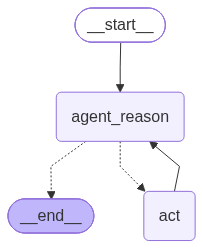
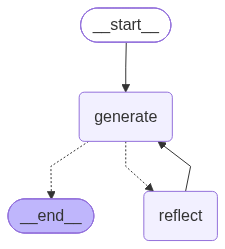
reflection agent

diff --git a/main.py b/main.py
@@ -1,38 +1,70 @@
+from typing import TypedDict, Annotated
+
 from dotenv import load_dotenv
-
-from langchain_core.messages import HumanMessage
-from langgraph.graph import MessagesState, StateGraph,END
-
-from nodes import run_agent_reasoning, tool_node
 
 load_dotenv()
 
-AGENT_REASON="agent_reason"
-ACT= "act"
-LAST = -1
+from langchain_core.messages import BaseMessage, HumanMessage
+from langgraph.graph import END, StateGraph
+from langgraph.graph.message import add_messages
+
+from chains import generate_chain, reflect_chain
 
 
-def should_continue(state: MessagesState) -> str:
-    if not state["messages"][LAST].tool_calls:
+class MessageGraph(TypedDict):
+    messages: Annotated[list[BaseMessage], add_messages]
+
+
+REFLECT = "reflect"
+GENERATE = "generate"
+
+
+def generation_node(state: MessageGraph):
+    return {"messages": [generate_chain.invoke({"messages": state["messages"]})]}
+
+
+def reflection_node(state: MessageGraph):
+    res = reflect_chain.invoke({"messages": state["messages"]})
+    return {"messages": [HumanMessage(content=res.content)]}
+
+
+builder = StateGraph(state_schema=MessageGraph)
+builder.add_node(GENERATE, generation_node)
+builder.add_node(REFLECT, reflection_node)
+builder.set_entry_point(GENERATE)
+
+
+def should_continue(state: MessageGraph):
+    if len(state["messages"]) > 6:
         return END
-    return ACT
+    return REFLECT
 
-flow = StateGraph(MessagesState)
 
-flow.add_node(AGENT_REASON, run_agent_reasoning)
-flow.set_entry_point(AGENT_REASON)
-flow.add_node(ACT, tool_node)
+builder.add_conditional_edges(GENERATE, should_continue, path_map={END: END, REFLECT: REFLECT})
+builder.add_edge(REFLECT, GENERATE)
 
-flow.add_conditional_edges(AGENT_REASON, should_continue, {
-    END:END,
-    ACT:ACT})
+graph = builder.compile()
+print(graph.get_graph().draw_mermaid())
+graph.get_graph().draw_mermaid_png(output_file_path="flow.png")
+graph.get_graph().print_ascii()
 
-flow.add_edge(ACT, AGENT_REASON)
-
-app = flow.compile()
-app.get_graph().draw_mermaid_png(output_file_path="flow.png")
 
 if __name__ == "__main__":
-    print("Hello ReAct LangGraph with Function Calling")
-    res = app.invoke({"messages": [HumanMessage(content="What is the temperature in Yerevan? List it and then triple it")]})
-    print(res["messages"][LAST].content)
+    print("Hello LangGraph")
+    inputs = {
+        "messages": [
+            HumanMessage(
+                content="""Make this tweet better:"
+                                    @LangChainAI
+            — newly Tool Calling feature is seriously underrated.
+
+            After a long wait, it's  here- making the implementation of agents across different models with function calling - super easy.
+
+            Made a video covering their newest blog post
+
+                                  """
+            )
+        ]
+    }
+    response = graph.invoke(inputs)
+    print(response)

diff --git a/chains.py b/chains.py
@@ -1,0 +1,30 @@
+from langchain_core.prompts import ChatPromptTemplate, MessagesPlaceholder
+from langchain_openai import ChatOpenAI
+
+reflection_prompt = ChatPromptTemplate.from_messages(
+    [
+        (
+            "system",
+            "You are a viral twitter influencer grading a tweet. Generate critique and recommendations for the user's tweet."
+            "Always provide detailed recommendations, including requests for length, virality, style, etc.",
+        ),
+        MessagesPlaceholder(variable_name="messages"),
+    ]
+)
+
+generation_prompt = ChatPromptTemplate.from_messages(
+    [
+        (
+            "system",
+            "You are a twitter techie influencer assistant tasked with writing excellent twitter posts."
+            " Generate the best twitter post possible for the user's request."
+            " If the user provides critique, respond with a revised version of your previous attempts.",
+        ),
+        MessagesPlaceholder(variable_name="messages"),
+    ]
+)
+
+
+llm = ChatOpenAI()
+generate_chain = generation_prompt | llm
+reflect_chain = reflection_prompt | llm

diff --git a/README.md b/README.md
@@ -1,1 +1,107 @@
-# Langgraph_tutorial
+# 🦜🪞 LangGraph Reflection Agent
+
+This repository contains a reflection-style agent architecture built with LangGraph that improves output quality through self-critique and refinement.
+
+## ✨ Overview
+
+The reflection agent uses a feedback loop between a generation component and a reflection component to iteratively improve responses to user queries. In this implementation, we've created a Twitter assistant that enhances tweets through multiple rounds of critique and revision.
+
+```mermaid
+graph LR;
+    __start__([__start__]):::first
+    generate(generate)
+    reflect(reflect)
+    __end__([__end__]):::last
+    __start__ --> generate;
+    generate --> reflect;
+    reflect -.-> generate;
+    generate -.-> __end__;
+    classDef default fill:#f2f0ff,line-height:1.2
+    classDef first fill-opacity:0
+    classDef last fill:#bfb6fc
+```
+[![udemy](https://img.shields.io/badge/LangGraph🦜🔗%20Udemy%20Course-%20Coupon%20%2412.99-brightgreen)](https://www.udemy.com/course/langgraph/?couponCode=APRIL-2025)
+
+## 🔄 How It Works
+
+1. **Generate**: The initial component creates a response (in our case, a tweet) based on the user's input
+2. **Reflect**: The reflection component evaluates the generated content and provides specific feedback for improvement
+3. **Loop**: The generation component refines its output based on the reflection's feedback
+4. **Termination**: The process ends after a predetermined number of iterations (currently set to 6)
+
+This approach creates a self-improving system that produces higher quality outputs through deliberate reflection.
+
+## 💻 Installation
+
+```bash
+# Clone the repository
+git clone https://github.com/emarco177/langgraph-course.git
+cd langgraph-course
+git checkout project/reflection-agent
+
+# Install dependencies using Poetry
+poetry install
+```
+
+## 📁 Project Structure
+
+```
+reflection-agent/
+├── chains.py         # Defines the prompt chains for generation and reflection
+├── main.py           # Implements the core LangGraph structure
+├── pyproject.toml    # Project dependencies and configuration
+└── README.md         # This documentation
+```
+
+## 🛠 Implementation Details
+
+### Main Components
+
+The reflection agent is built with two primary nodes:
+
+1. **Generation Node** (in `chains.py`):
+   - Uses a specialized prompt for creating Twitter content
+   - Responds to critique by refining previously generated content
+
+2. **Reflection Node** (in `chains.py`):
+   - Critiques the generated content against quality criteria
+   - Provides specific recommendations for improvement
+
+## 🔍 Example Usage
+
+```python
+from langchain_core.messages import HumanMessage
+from main import graph
+
+# Create input prompt
+input_tweet = HumanMessage(content="""Make this tweet better:
+@LangChainAI — newly Tool Calling feature is seriously underrated.
+After a long wait, it's here- making the implementation of agents across different models with function calling - super easy.
+Made a video covering their newest blog post""")
+
+# Run the reflection agent
+improved_tweet = graph.invoke(input_tweet)
+print(improved_tweet)
+```
+
+## 📚 Video Lessons
+
+This project is built incrementally across multiple video lessons. Each commit represents a specific lesson in the series:
+
+| Lesson | Commit | Description |
+|--------|--------|-------------|
+| 1 | [adbee18](https://github.com/emarco177/langgaph-course/commit/adbee18) | **Getting Started**: Initial setup for the reflection agent |
+| 2 | [aab1105](https://github.com/emarco177/langgaph-course/commit/aab1105) | **Project Structure**: Adding core files and dependencies with Poetry |
+| 3 | [d2f15d2](https://github.com/emarco177/langgaph-course/commit/d2f15d2) | **Chain Implementation**: Building Twitter influencer prompts and generation logic |
+| 4 | [ed491a6](https://github.com/emarco177/langgaph-course/commit/ed491a6) | **Graph Implementation**: Connecting nodes with conditional logic for feedback loops |
+
+Each lesson builds on the previous one, demonstrating how to incrementally build a reflection agent architecture using LangGraph.
+
+## 👏 Acknowledgment
+
+This reflection agent implementation is based on the concepts and patterns described in the LangGraph documentation. For more information about reflection agents, visit the [LangGraph Reflection Tutorial](https://langchain-ai.github.io/langgraph/tutorials/reflection/reflection/).
+
+## 🔗 Links
+[![portfolio](https://img.shields.io/badge/my_portfolio-000?style=for-the-badge&logo=ko-fi&logoColor=white)](https://www.udemy.com/course/langgraph/?referralCode=FEA50E8CBA24ECD48212)
+[![linkedin](https://img.shields.io/badge/linkedin-0A66C2?style=for-the-badge&logo=linkedin&logoColor=white)](https://www.linkedin.com/in/eden-marco/)
+[![Twitter Follow](https://img.shields.io/twitter/follow/EdenEmarco177?style=social)](https://twitter.com/EdenEmarco177)
